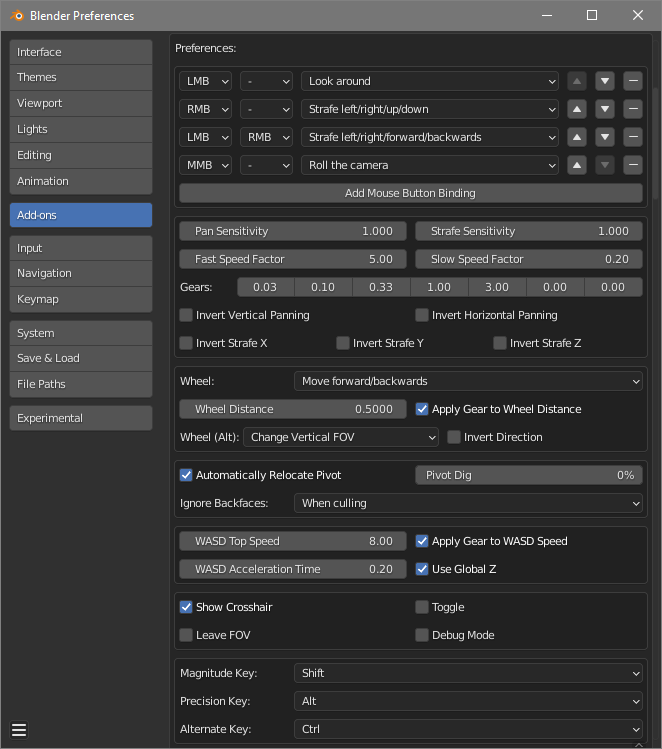
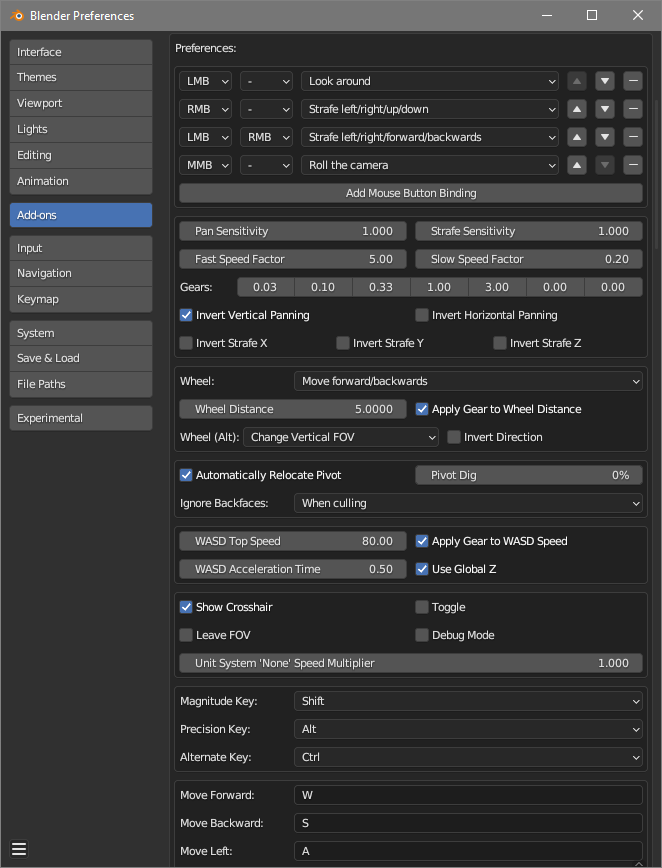
Bump version, bundle with Python and update prefs demo image

Changed region(s): [[0.0, 0.0, 0.997, 1.0], [0.0, 0.9519, 0.0604, 0.9826], [0.9366, 0.9212, 0.9668, 0.9519]]

diff --git a/build/zip_for_blender.py b/build/zip_for_blender.py
@@ -1,0 +1,31 @@
+# This file must be run from the repository root.
+
+projectName = "mouse_strafing"
+additionalDirectories = []
+additionalFiles = ["LICENSE"]
+
+def getVersion():
+	import re
+	with open("__init__.py", mode="r") as f:
+		m = re.compile(r"""^\s*"version"\s*:\s*\(\s*(?P<major>\d+)\s*,\s*(?P<minor>\d+)\s*(,\s*(?P<patch>\d+)\s*)?\)\s*,?\s*$""", re.MULTILINE).search(f.read())
+		if m.group("patch") != None:
+			return f'{m.group("major")}.{m.group("minor")}.{m.group("patch")}'
+		else:
+			return f'{m.group("major")}.{m.group("minor")}'
+
+if __name__ == "__main__":
+	import zipfile
+	from pathlib import Path
+	zipFileName = f"{projectName}-{getVersion()}.zip"
+	print(f"Writing {zipFileName}...")
+	with zipfile.ZipFile(zipFileName, "w", zipfile.ZIP_DEFLATED) as zf:
+		for dir in additionalDirectories:
+			for path in Path(dir).rglob("*"):
+				print(f"Adding {path} as {path.as_posix()}")
+				zf.write(path, path.as_posix())
+		for path in Path(".").glob("*.py"):
+			print(f"Adding {path} as {path.as_posix()}")
+			zf.write(path, path.as_posix())
+		for fileName in additionalFiles:
+			print(f"Adding {fileName} as {fileName}")
+			zf.write(fileName, fileName)

diff --git a/__init__.py b/__init__.py
@@ -2,7 +2,7 @@ bl_info = {
     "name": "Mouse Strafing",
     "description": "Strafe in the 3D View using the mouse.",
     "author": "Zyl",
-    "version": (2, 5),
+    "version": (2, 6),
     "blender": (2, 93, 0),
     "category": "3D View"
 }

diff --git a/CHANGES.md b/CHANGES.md
@@ -1,4 +1,4 @@
-# 2.6 (2023-01-17)
+# 2.6 (2023-01-18)
 * Fix time-dependent effects (text fade-out, WASD acceleration) becoming jerky on Windows when the system has been running for more than two days.
 * Can now specify additional speed multiplier that is used for all movement operations when the scene's unit system is set to 'None'.
 
